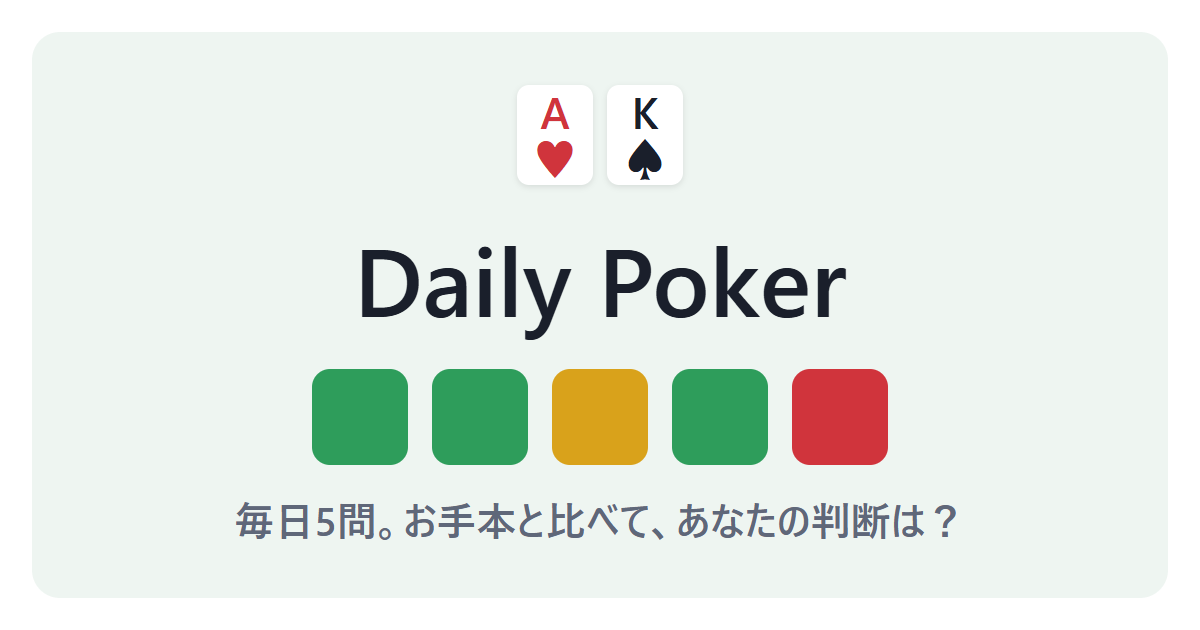
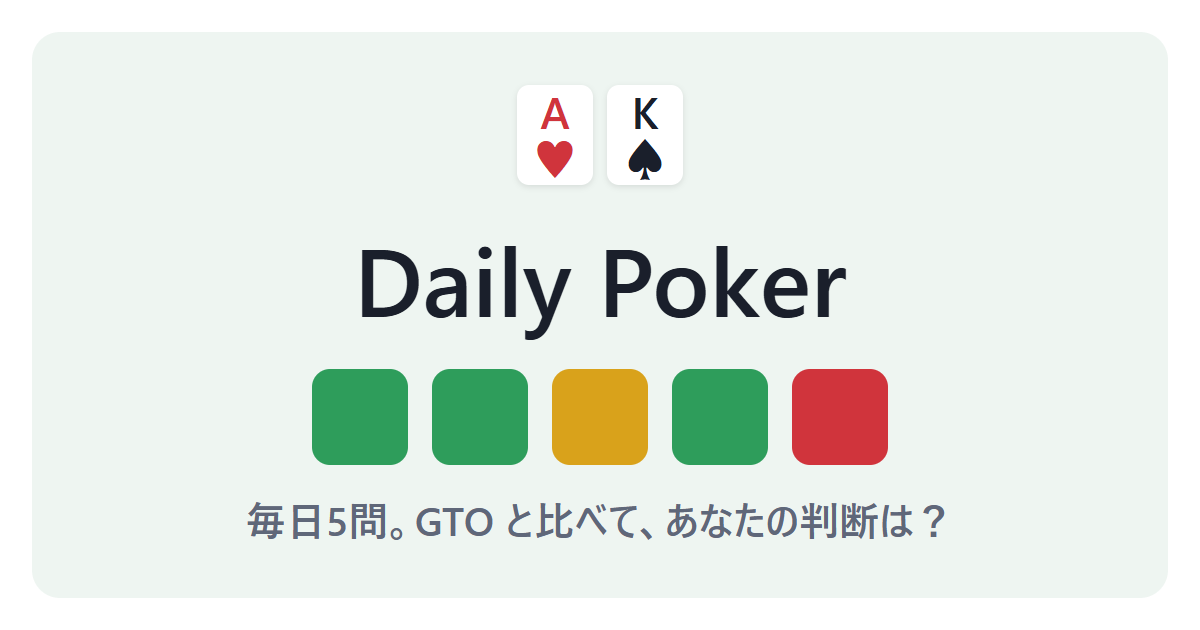
feat: 画面の「お手本」を「GTO」に変える
答え合わせ・注記・採点の決まり・一言の説明・見本の解説・OGP の文と画像で、
「お手本」（英語 Solver、中国語 範例解）を「GTO」にそろえる。
用語の GTO の説明に「このアプリの正解の基準」と足し、見本の問題の用語に gto を入れる。

Changed region(s): [[0.185, 0.7841, 0.8017, 0.8746]]

diff --git a/index.html b/index.html
@@ -4,14 +4,14 @@
     <meta charset="UTF-8" />
     <meta name="viewport" content="width=device-width, initial-scale=1, viewport-fit=cover" />
     <title>Daily Poker</title>
-    <meta name="description" content="毎日5問。お手本と比べて、あなたの判断は？ 無料のポーカークイズ。" />
+    <meta name="description" content="毎日5問。GTO と比べて、あなたの判断は？ 無料のポーカークイズ。" />
     <meta name="theme-color" content="#ffffff" />
     <link rel="icon" href="./favicon.svg" type="image/svg+xml" />
     <!-- OGP。絶対URLはビルド時に VITE_SITE_URL から作る -->
     <meta property="og:type" content="website" />
     <meta property="og:site_name" content="Daily Poker" />
     <meta property="og:title" content="Daily Poker" />
-    <meta property="og:description" content="毎日5問。お手本と比べて、あなたの判断は？ 無料のポーカークイズ。" />
+    <meta property="og:description" content="毎日5問。GTO と比べて、あなたの判断は？ 無料のポーカークイズ。" />
     <meta property="og:url" content="%VITE_SITE_URL%" />
     <meta property="og:image" content="%VITE_SITE_URL%og.png" />
     <meta property="og:image:width" content="1200" />

diff --git a/docs/決定メモ.md b/docs/決定メモ.md
@@ -17,6 +17,7 @@
 | 2026-11-13 | レンジ（U4） | `content/ranges/` の8つを **Daily Poker の前提・第1版**として確定。#10 の計算で不自然な答えが出たら直して版を上げる |
 | 2026-11-14 | 計算の重さ（#10・U10 の材料） | 見本5問をフロップから計算：1問 19秒〜2分50秒（平均 約1分40秒）、メモリ 0.6〜4.7GB。精度はすべて目標（ポットの0.3%）以内。1週間分35問で約1時間 |
 | 2026-11-14 | 解説の書き方（U8） | **3行まで、です・ます調、「なぜ」を1つ**。数字は繰り返さない。お手本が混ぜる場面は「どちらも正解に近い」と書き、断定しない |
+| 2026-11-14 | 「お手本」の呼び方 | **画面の「お手本」をすべて「GTO」に変える**（英語の Solver、中国語の範例解も GTO に）。解説の中の「GTO」はタップで説明が出るよう、問題の用語（terms）に gto を入れる |
 
 ## 設計書との小さな違い（開発側で直すもの）
 - 見本2問目（7♠6♠、場 K♥8♠3♣2♦）の解説「ストレートの見込み」は誤り。見本を直す
